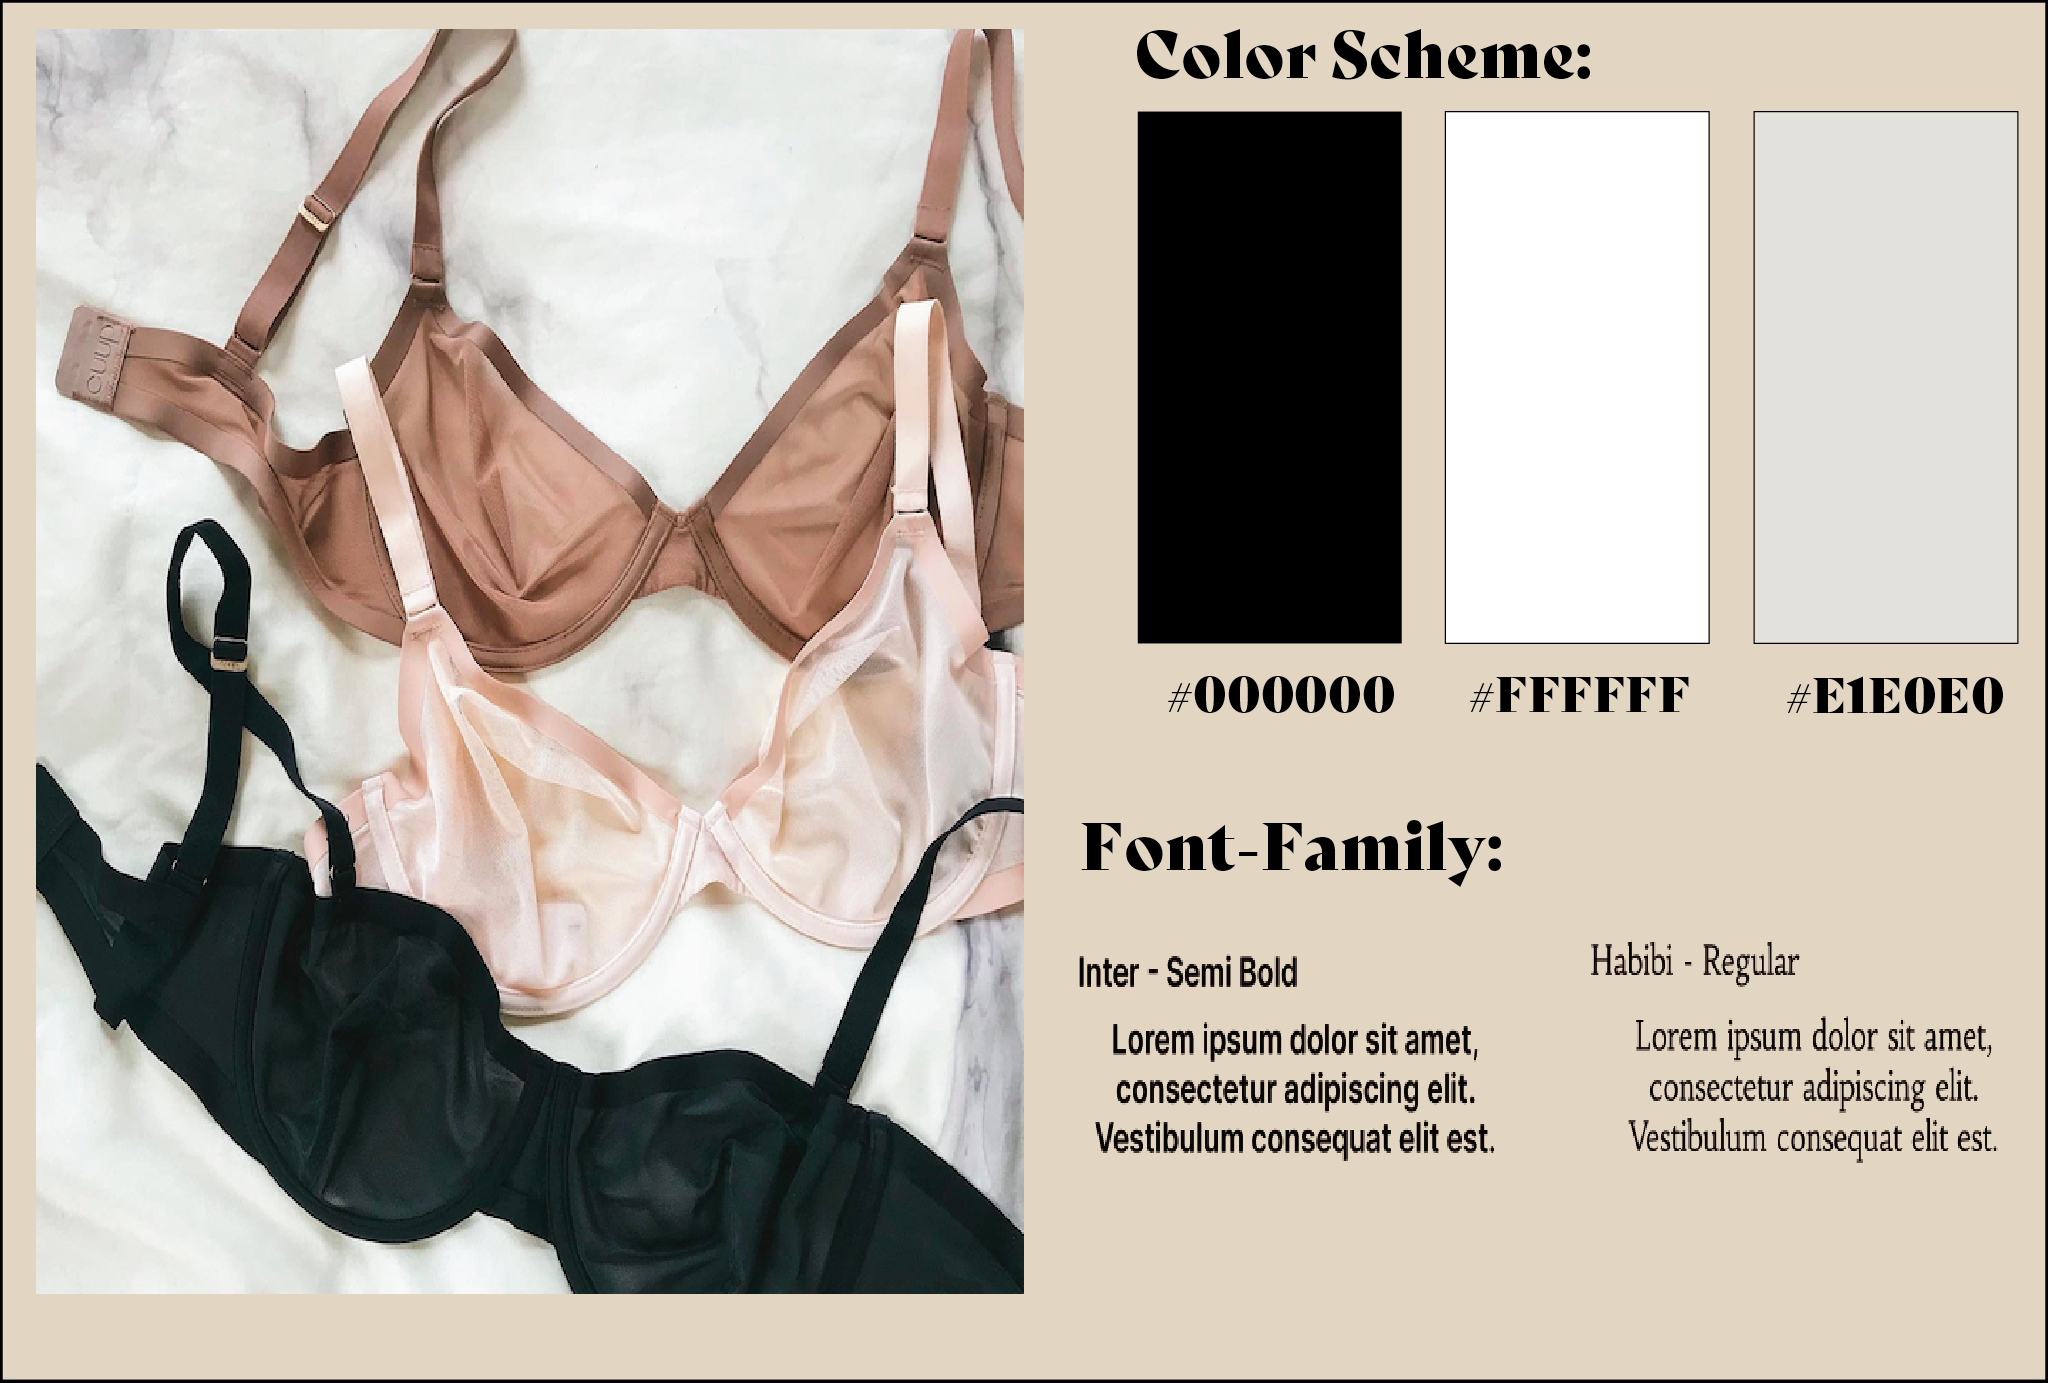
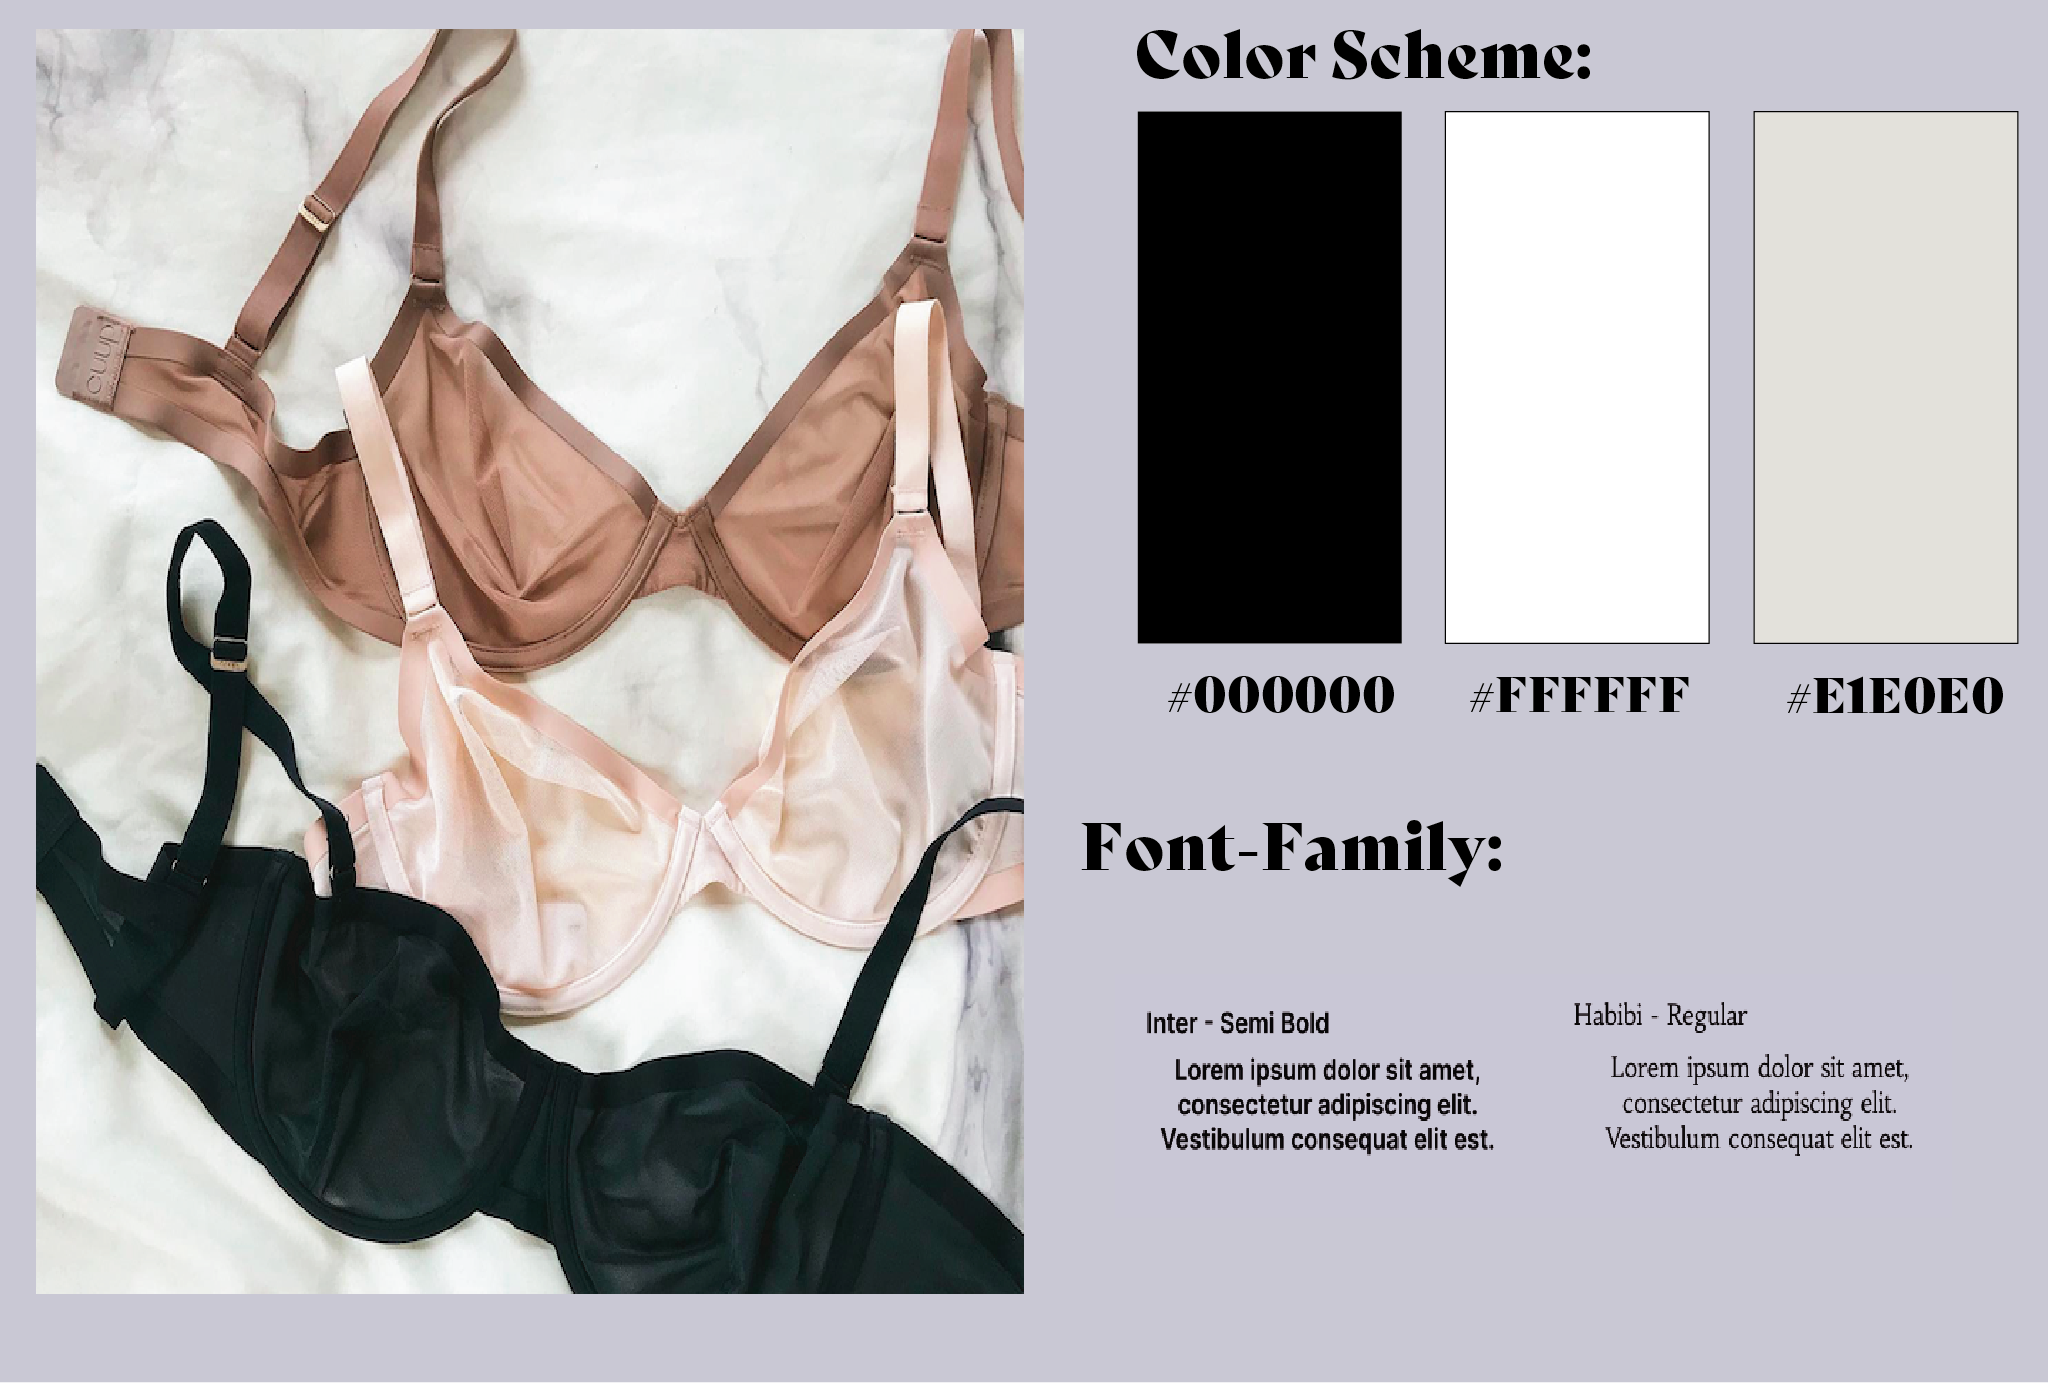
Updated

diff --git a/public/home.css b/public/home.css
@@ -183,7 +183,7 @@
     margin: 0;
   }
   h1 a {
-    color: #000000;
+    color: #151515;
     text-decoration: none;
   }
   h2 {
@@ -205,7 +205,7 @@
     flex-direction: column;
     justify-content: center;
     align-items: center;
-    background-color: #cdcdc5;
+    background-color: #c7ccdb;
     padding-top: 1%;
   }
   #topBar {
@@ -214,11 +214,12 @@
     justify-content: space-around;
     align-items: center;
     border-bottom: 2px solid black;
-    background-color: #93637b;
+    background-color: #ba79f9;
+    /*background-color: #93637b;*/
     /* background-color: #91282f; */
   }
   .introIcon {
-    max-width: 75vw;
+    max-width: 65vw;
     width: 100%;
     height: auto;
   }
@@ -246,7 +247,7 @@
     flex-direction: column;
     justify-content: center;
     align-items: center;
-    background-color: #768c69;
+    background-color: #bbbefe;
     border: 2px solid black;
     max-width: 100%;
     width: 100%;
@@ -272,7 +273,7 @@
     width: 100%;
     height: auto;
     padding-bottom: 3%;
-    background-color: #cdcdc5;
+    background-color: #c7ccdb;
   }
   #processDiv p,
   #contactDiv p {
@@ -286,7 +287,7 @@
     flex-direction: column;
     justify-content: center;
     align-items: center;
-    background-color: #6b1d37;
+    background-color: #d7bbf4;
     border: 2px solid black;
     max-width: 100%;
     width: 100%;
@@ -325,7 +326,7 @@
     padding-bottom: 3%;
   }
   footer h1 a {
-    color: #93637b;
+    color: #ba79f9;
     text-decoration: none;
   }
   footer p a {

diff --git a/public/process.css b/public/process.css
@@ -4,7 +4,7 @@
     padding: 0;
     overflow-x: hidden !important;
     box-sizing: border-box;
-    background-color: #cdcdc5;
+    background-color: #c7ccdb;
   }
   nav {
     display: flex;
@@ -12,7 +12,7 @@
     justify-content: center;
     align-items: center;
     border-bottom: 2px solid black;
-    background-color: #93637b;
+    background-color: #ba79f9;
   }
   h1 {
     font-family: bely-display, sans-serif;
@@ -210,7 +210,7 @@
     width: 100%;
     overflow-x: hidden !important;
     box-sizing: border-box;
-    background-color: #cdcdc5;
+    background-color: #c7ccdb;
   }
   nav {
     display: flex;
@@ -218,7 +218,7 @@
     justify-content: space-around;
     align-items: center;
     border-bottom: 2px solid black;
-    background-color: #93637b;
+    background-color: #ba79f9;
   }
   h1 {
     font-family: bely-display, sans-serif;
@@ -283,7 +283,6 @@
     width: 100%;
     height: auto;
     border: 5px solid black;
-    border-radius: 10px;
   }
 
   .standard {
@@ -294,7 +293,6 @@
     width: 100%;
     height: auto;
     border: 5px solid black;
-    border-radius: 10px;
     margin: 1%;
   }
   .fortyVw {
